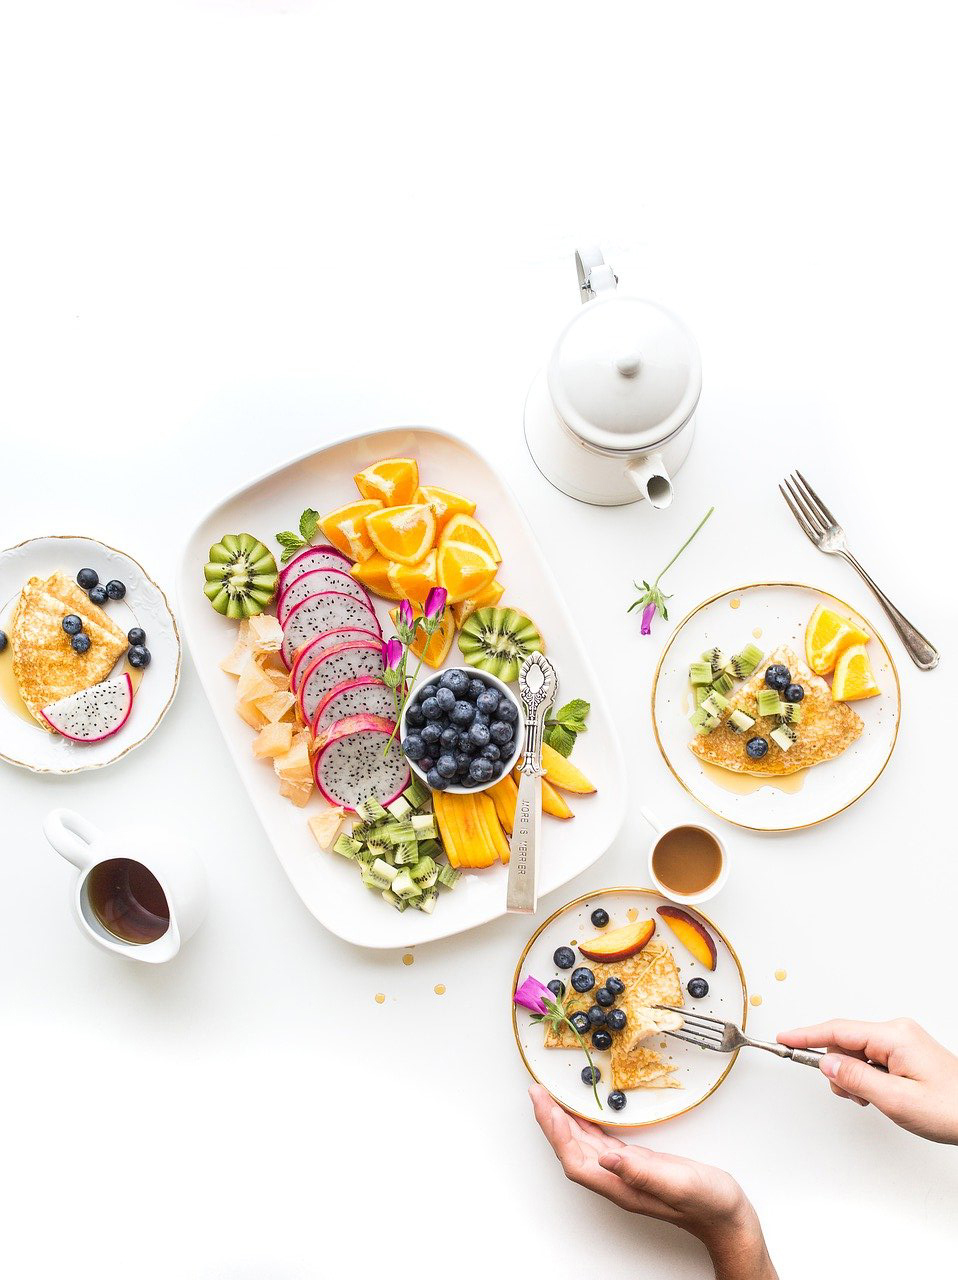
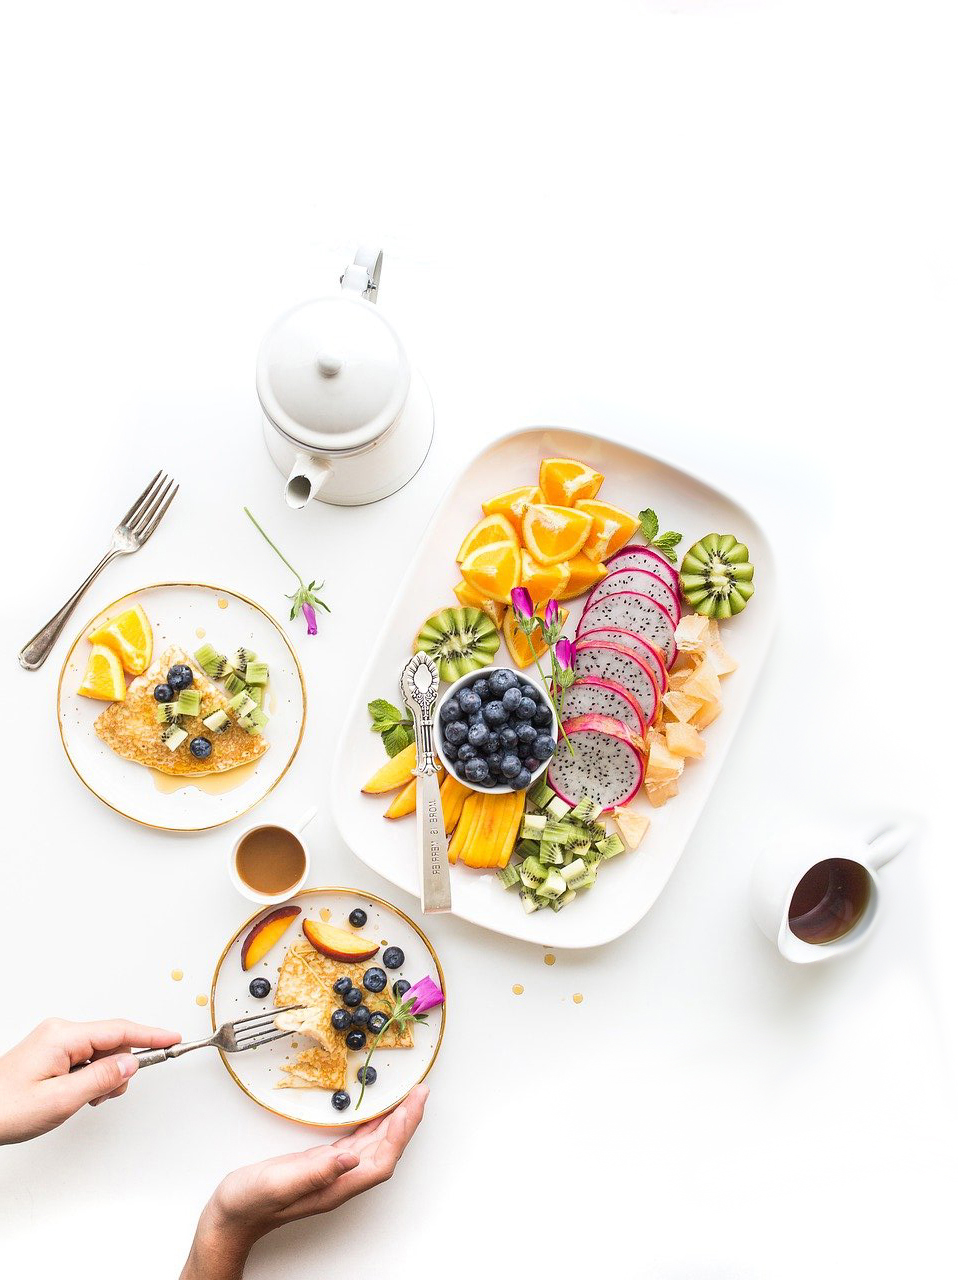
revise welcome page

diff --git a/src/pages/index.js b/src/pages/index.js
@@ -18,68 +18,36 @@ const useStyles = makeStyles({
     width: "100%",
     display: "flex",
     flexDirection: "column",
-    alignItems: "flex-start",
-    justifyContent: "flex-end",
+    alignItems: "center",
+    justifyContent: "center",
     padding: 20,
-
-    [theme.breakpoints.down("md")]: {
-      paddingBottom: 100,
+    [theme.breakpoints.down("sm")]: {
       justifyContent: "flex-start",
     },
-    [theme.breakpoints.down("sm")]: {
-      display: "none",
-    },
   },
-  mainText2: {
-    height: "100vh",
-    width: "100%",
-    display: "none",
-    flexDirection: "column",
-    alignItems: "center",
-    justifyContent: "flex-start",
-    padding: 10,
 
-    [theme.breakpoints.down("sm")]: {
-      padding: 10,
-      alignItems: "center",
-      display: "flex",
-    },
-  },
-  image1: {
-    display: "none",
+  image2: {
+    display: "block",
     position: "absolute",
-    height: "100vh",
-    // width: "100%",
+    width: "35%",
+    left: 0,
     bottom: 0,
     zIndex: -1,
     [theme.breakpoints.down("sm")]: {
       display: "block",
-      bottom: -50,
-    },
-    [theme.breakpoints.down("xs")]: {
-      bottom: "0px",
+      width: "100%",
     },
   },
-  image2: {
+  image1: {
     display: "block",
     position: "absolute",
-    width: "70%",
-    height: "100%",
-    top: 0,
+    width: "35%",
     right: 0,
+    top: 0,
     zIndex: -1,
 
     [theme.breakpoints.down("sm")]: {
       width: "100%",
-      display: "none",
-    },
-  },
-  image3: {
-    display: "block",
-    zIndex: -2,
-    objectFit: "cover",
-    objectPosition: "center",
-    [theme.breakpoints.down("md")]: {
       display: "none",
     },
   },
@@ -94,49 +62,34 @@ const IndexPage = () => {
       setTimeout(async () => {
         await setEnter(prev => prev + 1)
         navigate("/Content")
-      }, 1500)
+      }, 2000)
     }
   }, [enter])
   return (
     <div className={classes.mainBackground}>
       <div className={classes.mainText1}>
-        <Typography variant="h2" color="primary" align="left">
+        <Typography
+          variant="h2"
+          color="primary"
+          align="center"
+          sx={{ fontSize: { md: "40px", sm: "30px", xs: "24px" } }}
+        >
           Welcome to
         </Typography>
-        <Typography variant="h1" color="primary" align="left">
+        <Typography
+          variant="h1"
+          color="primary"
+          align="center"
+          sx={{ fontSize: { md: "60px", sm: "50px", xs: "40px" } }}
+        >
           Pancake{" "}
           <span style={{ color: theme.palette.secondary.dark }}>Plus</span>{" "}
           Pasta
         </Typography>
-        <StaticImage
-          src="../images/main/detail.jpg"
-          alt="detail"
-          placeholder="tracedSVG"
-          layout="constrained"
-          height={225}
-          className={classes.image3}
-        />
       </div>
-      <div className={classes.mainText2}>
-        <Typography variant="h3" color="primary" align="center">
-          Welcome to
-        </Typography>
-        <Typography variant="h2" color="primary" align="center">
-          Pancake{" "}
-          <span style={{ color: theme.palette.secondary.dark }}>Plus</span>{" "}
-          Pasta
-        </Typography>
-        <StaticImage
-          src="../images/main/detail.jpg"
-          alt="detail"
-          placeholder="tracedSVG"
-          layout="constrained"
-          height={225}
-          className={classes.image3}
-        />
-      </div>
+
       <StaticImage
-        src="../images/main/fruits2.jpg"
+        src="../images/main/fruits1.jpg"
         alt="fruits2"
         placeholder="tracedSVG"
         layout="constrained"
@@ -145,10 +98,12 @@ const IndexPage = () => {
         objectPosition="center"
       />
       <StaticImage
-        src="../images/main/fruits1.jpg"
+        src="../images/main/fruits2.jpg"
         alt="fruits1"
         placeholder="tracedSVG"
         layout="constrained"
+        objectFit="cover"
+        objectPosition="center"
         className={classes.image2}
       />
     </div>
